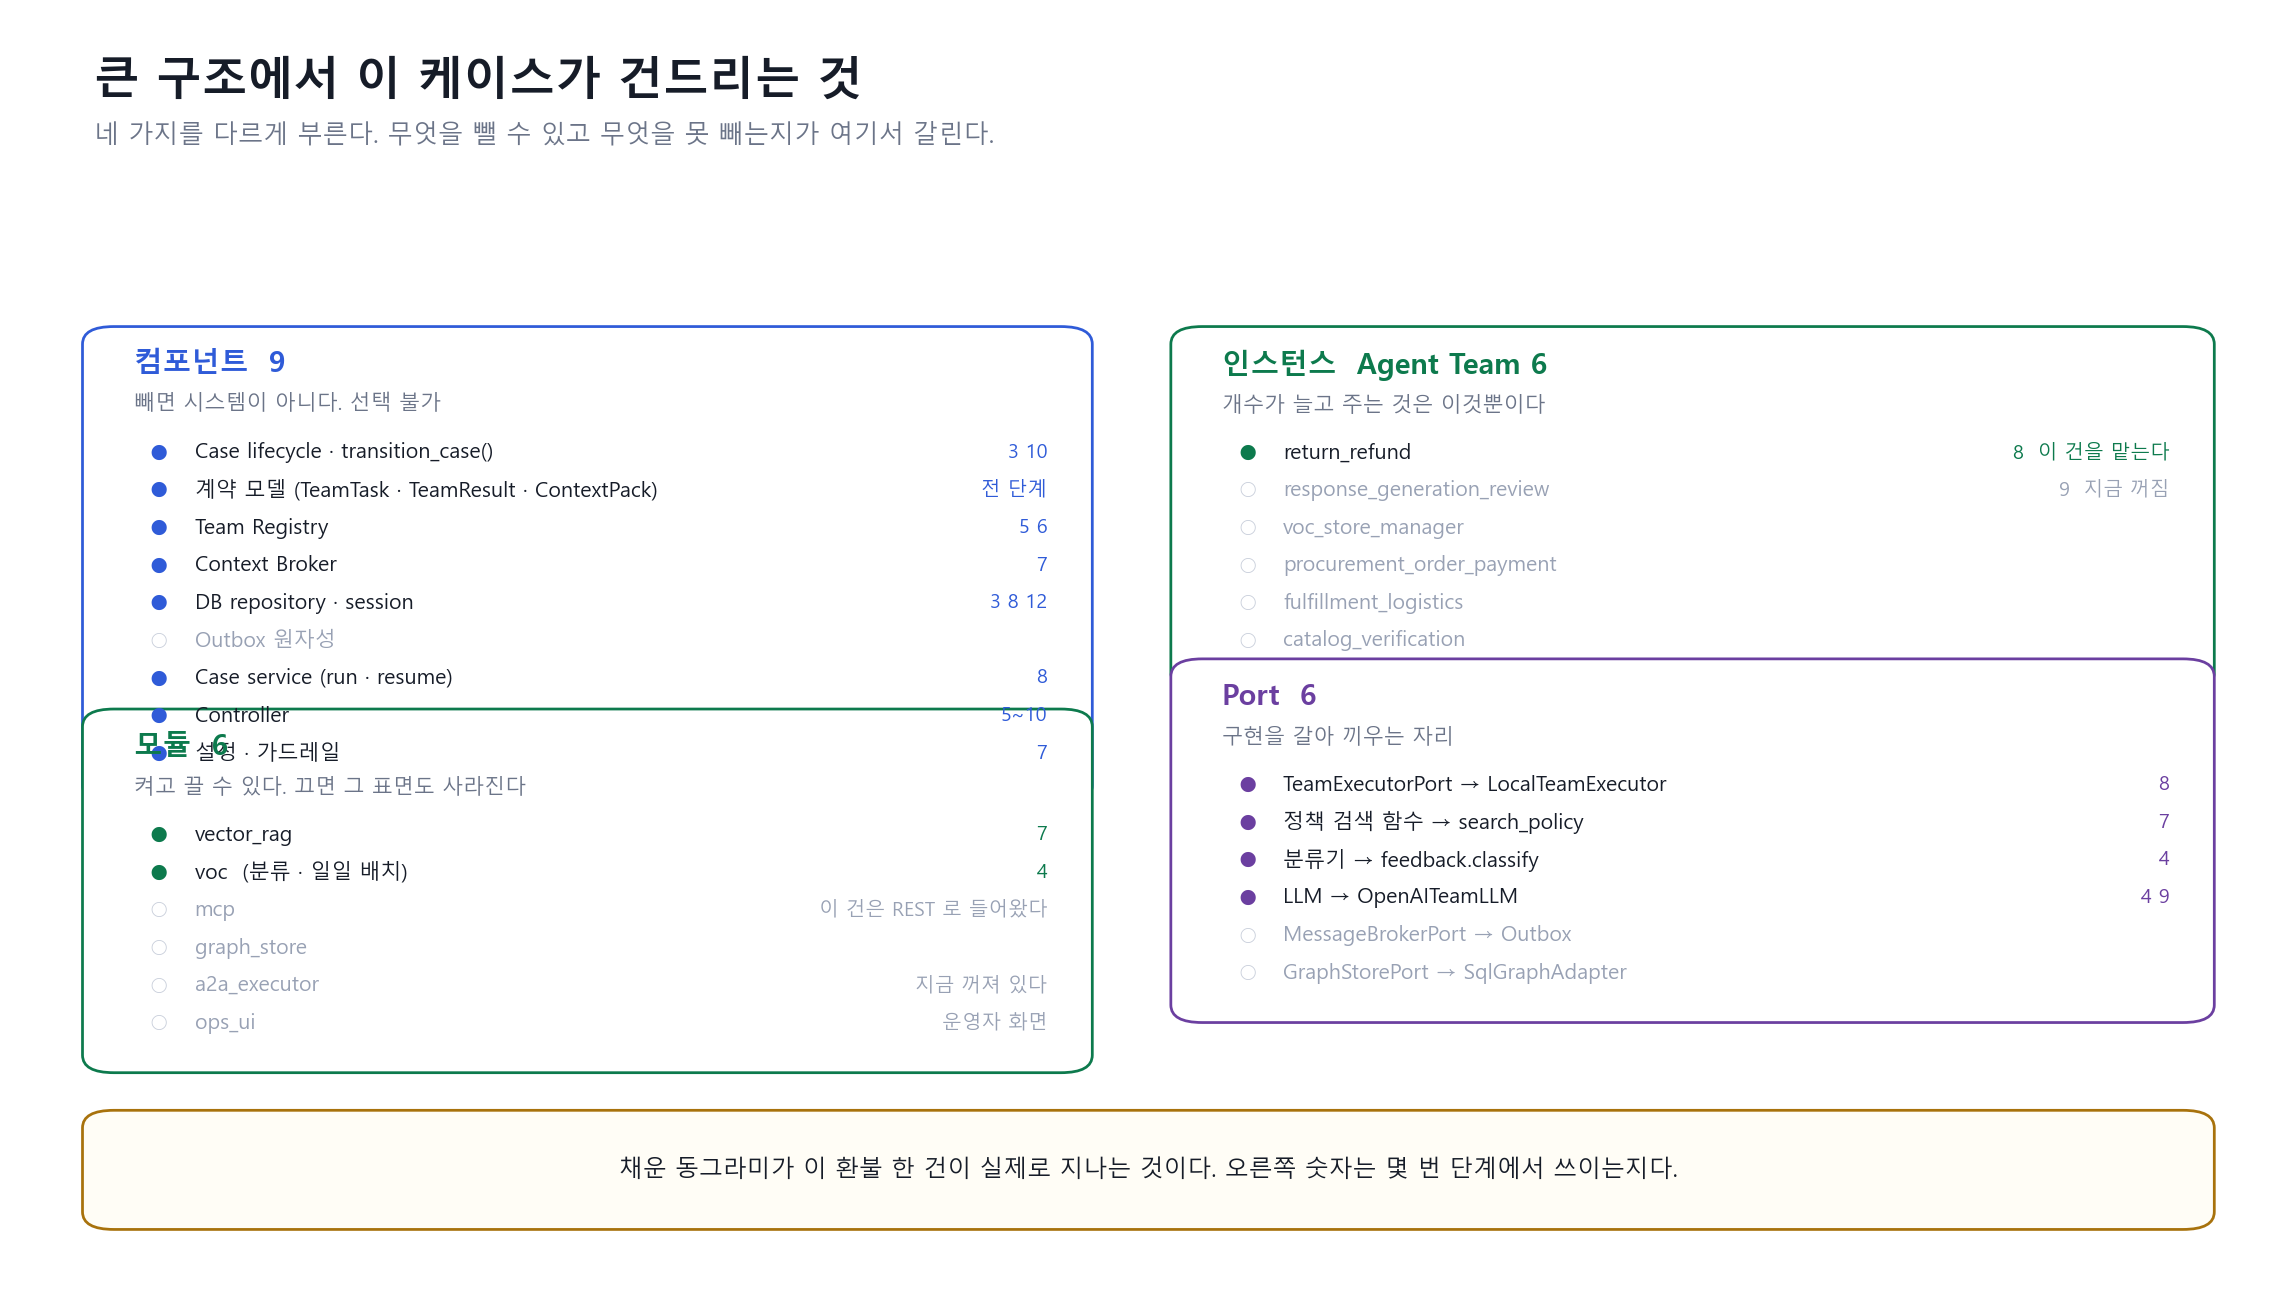
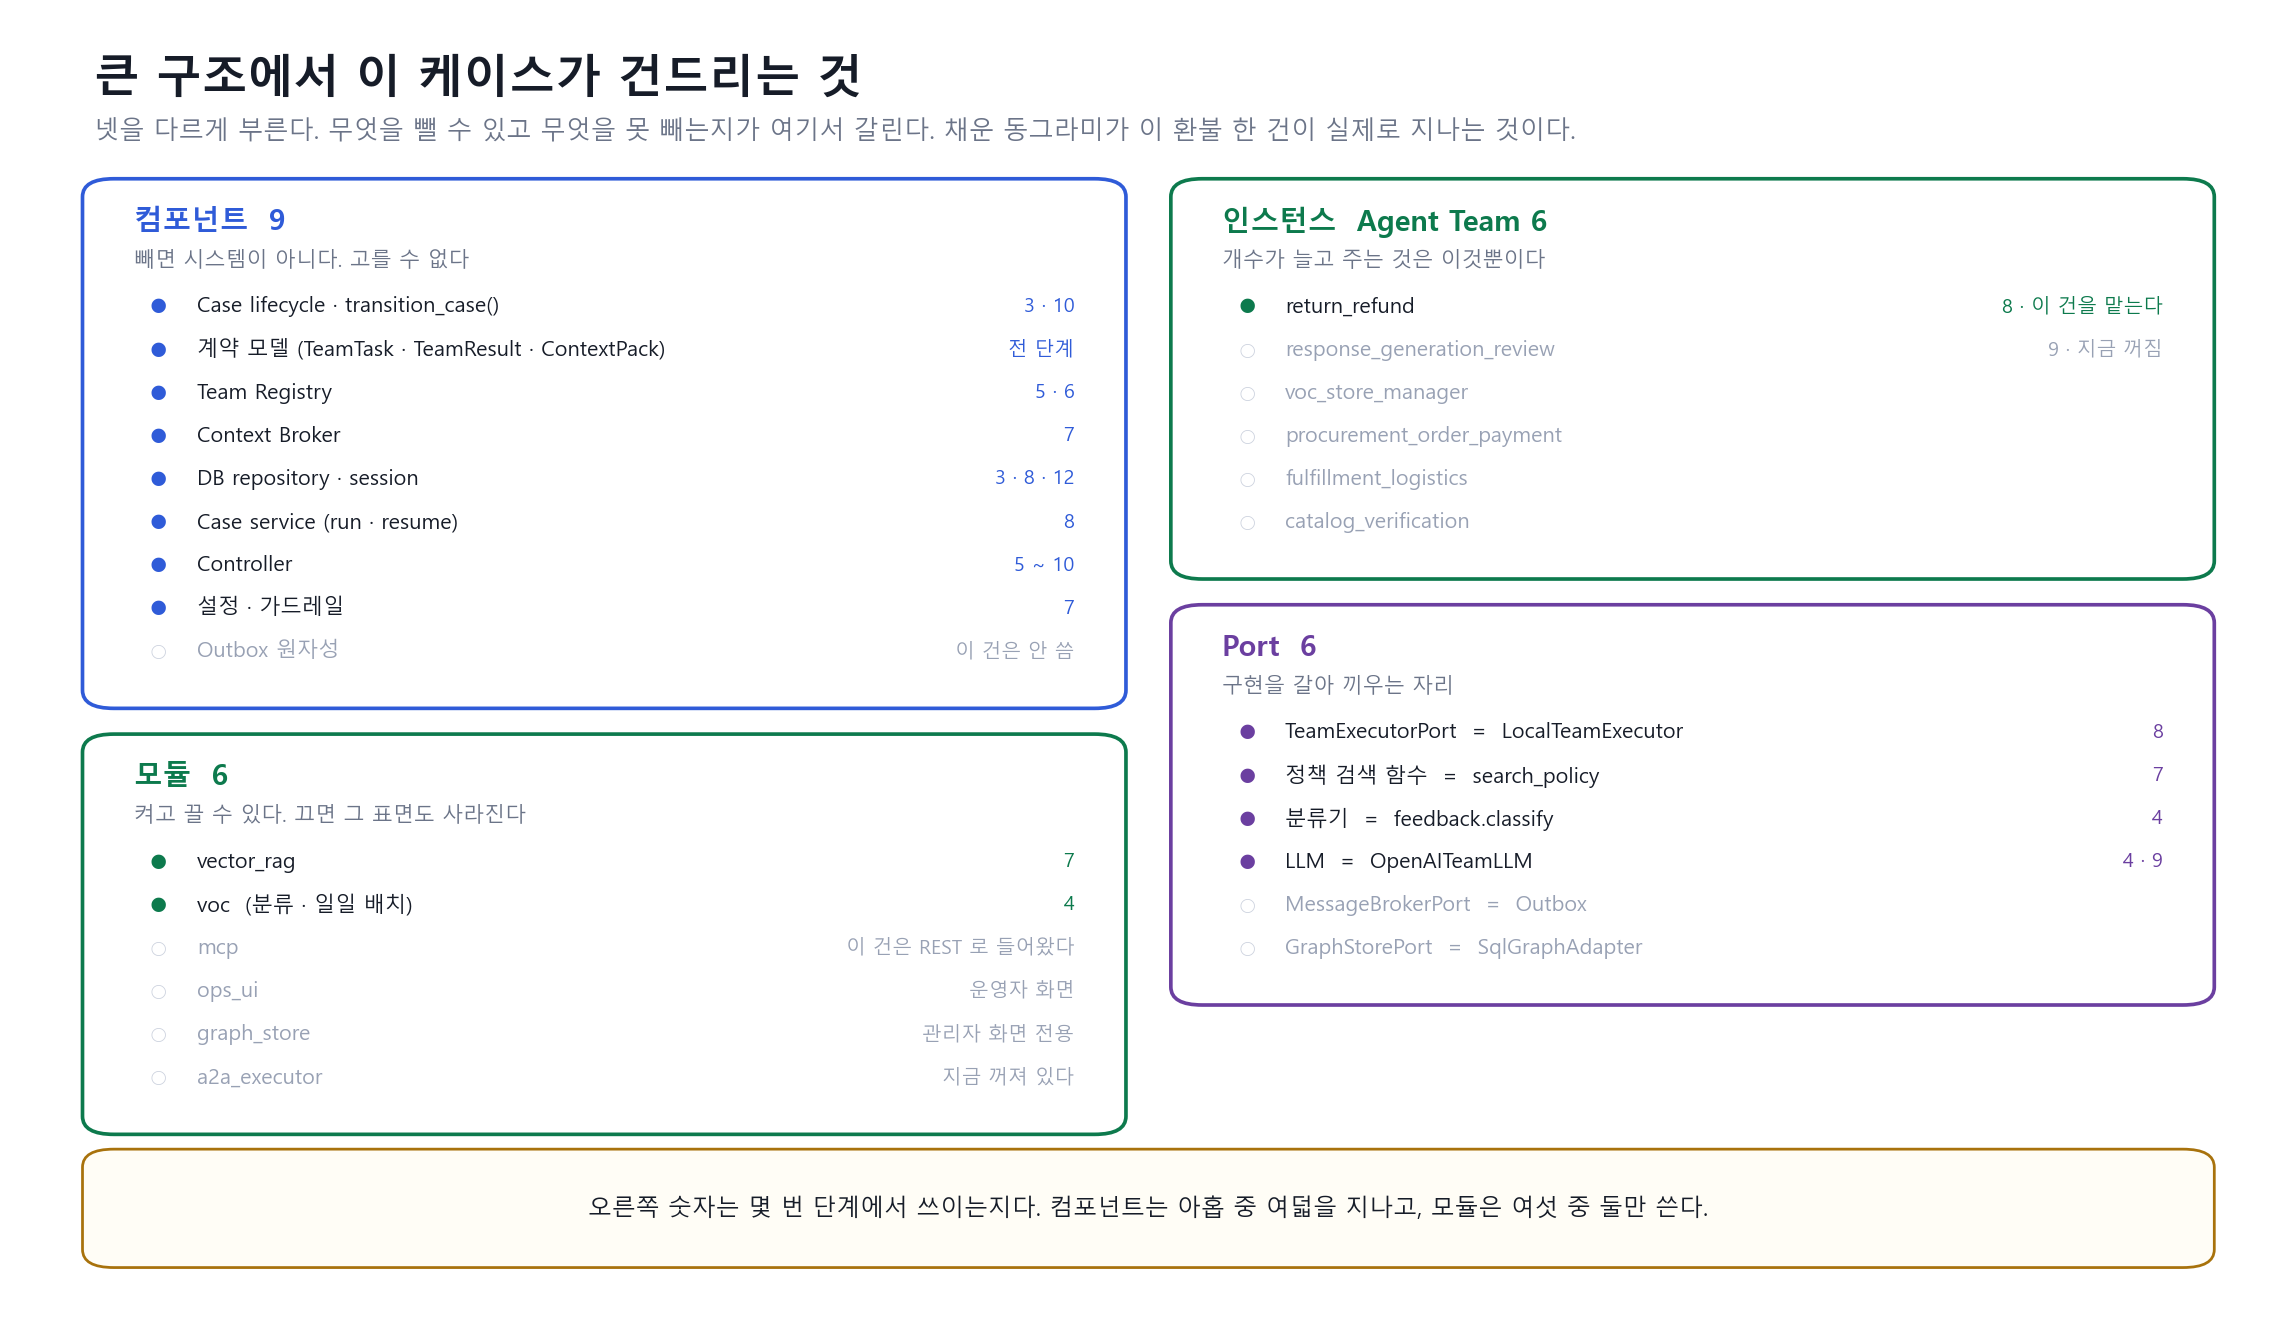
fix(학습): 구조 좌표 그림에서 상자가 겹치던 것을 고친다
컴포넌트 아홉 줄 중 아래 두 줄(Controller, 설정·가드레일)이 모듈 상자에
먹혀 있었다. 상자마다 y 좌표를 손으로 적고 높이는 항목 수로 계산해서,
둘이 안 맞으면 겹쳤다. 항목을 하나 늘리면 또 겹친다.

상자 높이를 항목 수에서 계산하고 다음 상자는 앞 상자가 끝난 자리에서
시작하게 바꿨다. 이제 항목을 늘려도 아래로 밀릴 뿐 겹치지 않는다.

같이 손본 것 셋이다.

  제목 아래 비어 있던 공간을 없애고 상자를 위로 올렸다
  Outbox 원자성을 컴포넌트 맨 아래로 내렸다. 안 쓰는 항목이 가운데
    있으면 채운 동그라미 줄이 끊겨 보인다
  Port 이름의 화살표를 등호로 바꿨다. 이 저장소에서 안 쓰는 문자다

diff --git a/program/onboarding/trace/make_trace_images.py b/program/onboarding/trace/make_trace_images.py
@@ -60,88 +60,91 @@ def sheet_map():
 
 # ══════════════════════════════════════════════ 01. 구조 좌표 전체
 def sheet_structure():
-    fig, ax = canvas(7.6)
-    ax.text(0.03, 0.955, "큰 구조에서 이 케이스가 건드리는 것", fontsize=20,
+    """큰 구조 네 가지를 두 열로 쌓는다.
+
+    ★상자 높이를 항목 수에서 계산하고, 다음 상자는 앞 상자가 끝난 자리에서
+      시작한다. 첫 판은 상자마다 y 를 손으로 적어서 컴포넌트 아홉 줄이
+      모듈 상자에 먹혔다. 항목을 하나 늘리면 또 겹친다.
+    """
+    fig, ax = canvas(7.8)
+    ax.text(0.03, 0.958, "큰 구조에서 이 케이스가 건드리는 것", fontsize=20,
             color=INK, fontweight="bold", va="center")
-    ax.text(0.03, 0.912, "네 가지를 다르게 부른다. 무엇을 뺄 수 있고 무엇을 못 빼는지가 "
-            "여기서 갈린다.", fontsize=11, color=DIM, va="center")
+    ax.text(0.03, 0.917, "넷을 다르게 부른다. 무엇을 뺄 수 있고 무엇을 못 빼는지가 "
+            "여기서 갈린다. 채운 동그라미가 이 환불 한 건이 실제로 지나는 것이다.",
+            fontsize=11, color=DIM, va="center")
 
-    groups = [
-        ("컴포넌트  9", "빼면 시스템이 아니다. 선택 불가", BLUE, 0.700, [
-            ("Case lifecycle · transition_case()", True, "3 10"),
-            ("계약 모델 (TeamTask · TeamResult · ContextPack)", True, "전 단계"),
-            ("Team Registry", True, "5 6"),
-            ("Context Broker", True, "7"),
-            ("DB repository · session", True, "3 8 12"),
-            ("Outbox 원자성", False, ""),
-            ("Case service (run · resume)", True, "8"),
-            ("Controller", True, "5~10"),
-            ("설정 · 가드레일", True, "7"),
-        ]),
-        ("모듈  6", "켜고 끌 수 있다. 끄면 그 표면도 사라진다", GREEN, 0.395, [
-            ("vector_rag", True, "7"),
-            ("voc  (분류 · 일일 배치)", True, "4"),
-            ("mcp", False, "이 건은 REST 로 들어왔다"),
-            ("graph_store", False, ""),
-            ("a2a_executor", False, "지금 꺼져 있다"),
-            ("ops_ui", False, "운영자 화면"),
-        ]),
-    ]
-    for head, sub, color, y0, items in groups:
-        box(ax, 0.03, y0 - 0.030 * len(items) - 0.045, 0.44,
-            0.030 * len(items) + 0.100, fc="white", ec=color)
-        ax.text(0.048, y0 + 0.030, head, fontsize=12.5, color=color,
+    ROW = 0.0335          # 항목 한 줄 높이
+    HEAD = 0.078          # 제목과 부제가 차지하는 높이
+    PAD = 0.022           # 상자 아래 여백
+    GAP = 0.030           # 상자 사이 간격
+    TOP = 0.876           # 첫 상자 윗변
+
+    def group(x, w, top, head, sub, color, items):
+        """상자 하나를 그리고 아랫변 y 를 돌려준다."""
+        h = HEAD + ROW * len(items) + PAD
+        bottom = top - h
+        box(ax, x, bottom, w, h, fc="white", ec=color, lw=1.6)
+        ax.text(x + 0.018, top - 0.028, head, fontsize=12.5, color=color,
                 fontweight="bold", va="center")
-        ax.text(0.048, y0 - 0.002, sub, fontsize=9.2, color=DIM, va="center")
+        ax.text(x + 0.018, top - 0.058, sub, fontsize=9.2, color=DIM, va="center")
         for i, (name, used, note) in enumerate(items):
-            yy = y0 - 0.040 - i * 0.030
-            ax.text(0.055, yy, "●" if used else "○", fontsize=8,
-                    color=color if used else "#c9cfdb", va="center")
-            ax.text(0.075, yy, name, fontsize=9.2,
+            y = top - HEAD - 0.016 - i * ROW
+            ax.text(x + 0.025, y, "●" if used else "○", fontsize=7.6,
+                    color=color if used else "#ccd2de", va="center")
+            ax.text(x + 0.046, y, name, fontsize=9.3,
                     color=INK if used else FAINT, va="center")
             if note:
-                ax.text(0.455, yy, note, fontsize=8.6, color=color if used else FAINT,
-                        va="center", ha="right")
+                ax.text(x + w - 0.018, y, note, fontsize=8.6,
+                        color=color if used else FAINT, va="center", ha="right")
+        return bottom
 
-    right = [
-        ("인스턴스  Agent Team 6", "개수가 늘고 주는 것은 이것뿐이다", GREEN, 0.700, [
-            ("return_refund", True, "8  이 건을 맡는다"),
-            ("response_generation_review", False, "9  지금 꺼짐"),
-            ("voc_store_manager", False, ""),
-            ("procurement_order_payment", False, ""),
-            ("fulfillment_logistics", False, ""),
-            ("catalog_verification", False, ""),
-        ]),
-        ("Port  6", "구현을 갈아 끼우는 자리", PURPLE, 0.435, [
-            ("TeamExecutorPort → LocalTeamExecutor", True, "8"),
-            ("정책 검색 함수 → search_policy", True, "7"),
-            ("분류기 → feedback.classify", True, "4"),
-            ("LLM → OpenAITeamLLM", True, "4 9"),
-            ("MessageBrokerPort → Outbox", False, ""),
-            ("GraphStorePort → SqlGraphAdapter", False, ""),
-        ]),
-    ]
-    for head, sub, color, y0, items in right:
-        box(ax, 0.515, y0 - 0.030 * len(items) - 0.045, 0.455,
-            0.030 * len(items) + 0.100, fc="white", ec=color)
-        ax.text(0.533, y0 + 0.030, head, fontsize=12.5, color=color,
-                fontweight="bold", va="center")
-        ax.text(0.533, y0 - 0.002, sub, fontsize=9.2, color=DIM, va="center")
-        for i, (name, used, note) in enumerate(items):
-            yy = y0 - 0.040 - i * 0.030
-            ax.text(0.540, yy, "●" if used else "○", fontsize=8,
-                    color=color if used else "#c9cfdb", va="center")
-            ax.text(0.560, yy, name, fontsize=9.2,
-                    color=INK if used else FAINT, va="center")
-            if note:
-                ax.text(0.955, yy, note, fontsize=8.6, color=color if used else FAINT,
-                        va="center", ha="right")
+    LX, LW = 0.030, 0.455
+    RX, RW = 0.515, 0.455
 
-    box(ax, 0.03, 0.045, 0.94, 0.085, fc="#fffdf6", ec=AMBER)
-    ax.text(0.5, 0.088, "채운 동그라미가 이 환불 한 건이 실제로 지나는 것이다. "
-            "오른쪽 숫자는 몇 번 단계에서 쓰이는지다.",
+    y = group(LX, LW, TOP, "컴포넌트  9", "빼면 시스템이 아니다. 고를 수 없다", BLUE, [
+        ("Case lifecycle · transition_case()", True, "3 · 10"),
+        ("계약 모델 (TeamTask · TeamResult · ContextPack)", True, "전 단계"),
+        ("Team Registry", True, "5 · 6"),
+        ("Context Broker", True, "7"),
+        ("DB repository · session", True, "3 · 8 · 12"),
+        ("Case service (run · resume)", True, "8"),
+        ("Controller", True, "5 ~ 10"),
+        ("설정 · 가드레일", True, "7"),
+        ("Outbox 원자성", False, "이 건은 안 씀"),
+    ])
+    group(LX, LW, y - GAP, "모듈  6", "켜고 끌 수 있다. 끄면 그 표면도 사라진다", GREEN, [
+        ("vector_rag", True, "7"),
+        ("voc  (분류 · 일일 배치)", True, "4"),
+        ("mcp", False, "이 건은 REST 로 들어왔다"),
+        ("ops_ui", False, "운영자 화면"),
+        ("graph_store", False, "관리자 화면 전용"),
+        ("a2a_executor", False, "지금 꺼져 있다"),
+    ])
+
+    y = group(RX, RW, TOP, "인스턴스  Agent Team 6", "개수가 늘고 주는 것은 이것뿐이다",
+              GREEN, [
+        ("return_refund", True, "8 · 이 건을 맡는다"),
+        ("response_generation_review", False, "9 · 지금 꺼짐"),
+        ("voc_store_manager", False, ""),
+        ("procurement_order_payment", False, ""),
+        ("fulfillment_logistics", False, ""),
+        ("catalog_verification", False, ""),
+    ])
+    group(RX, RW, y - GAP, "Port  6", "구현을 갈아 끼우는 자리", PURPLE, [
+        ("TeamExecutorPort  =  LocalTeamExecutor", True, "8"),
+        ("정책 검색 함수  =  search_policy", True, "7"),
+        ("분류기  =  feedback.classify", True, "4"),
+        ("LLM  =  OpenAITeamLLM", True, "4 · 9"),
+        ("MessageBrokerPort  =  Outbox", False, ""),
+        ("GraphStorePort  =  SqlGraphAdapter", False, ""),
+    ])
+
+    box(ax, 0.030, 0.040, 0.940, 0.082, fc="#fffdf6", ec=AMBER)
+    ax.text(0.5, 0.081, "오른쪽 숫자는 몇 번 단계에서 쓰이는지다. "
+            "컴포넌트는 아홉 중 여덟을 지나고, 모듈은 여섯 중 둘만 쓴다.",
             ha="center", va="center", fontsize=10.4, color=INK)
     save(fig, "01_구조좌표.png")
+
 
 
 if __name__ == "__main__":
